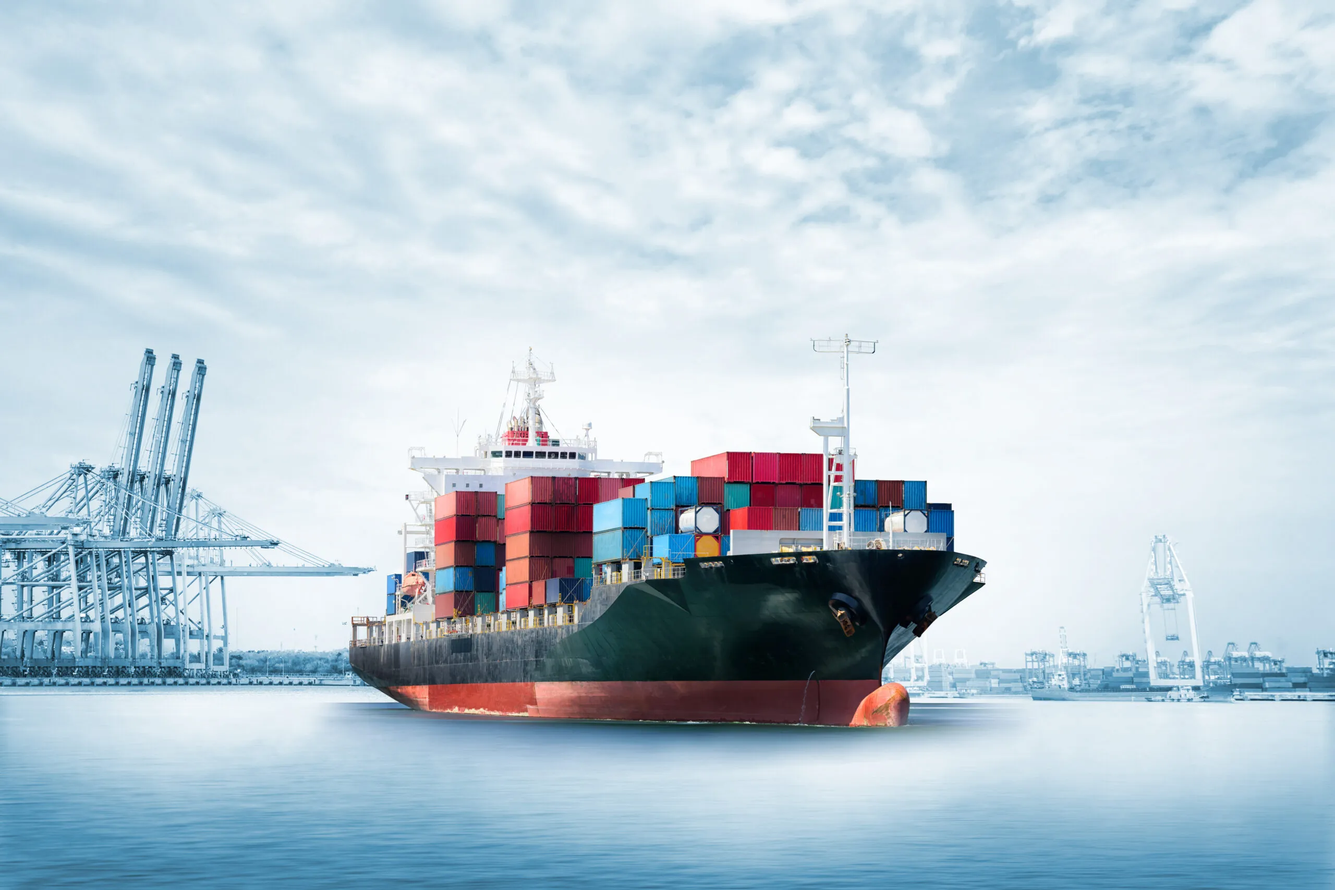
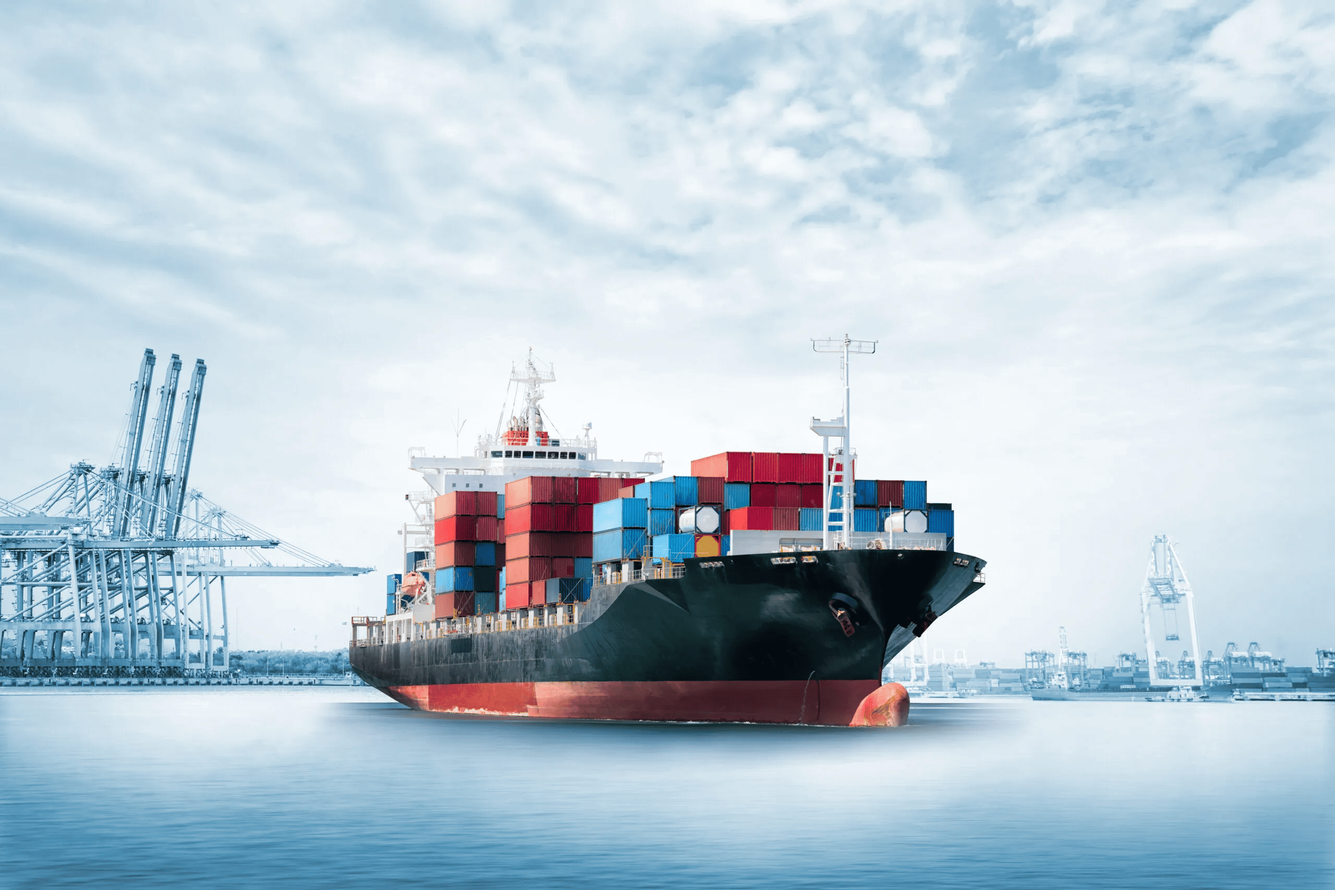
animation

diff --git a/first-surelink-logistics/src/App.css b/first-surelink-logistics/src/App.css
@@ -3,8 +3,6 @@
   padding: 0;
   box-sizing: border-box;
   scroll-behavior:smooth;
-  
-  
 }
 
 body {
@@ -286,6 +284,7 @@ body {
   text-align: left;
   background-color: #ffffff;
     margin: 0;
+     overflow-x: hidden;
 }
 
 
@@ -300,6 +299,7 @@ body {
   width: 100%;
   height: 100%;
   object-fit: cover;
+  
 }
 
 .service h2 {
@@ -590,6 +590,7 @@ width: 70%;
   padding: 100px 5%;
   background: #f6f6f6;
   border-radius: 20px;
+  overflow-x: hidden;
 }
 
 .flow-heading {
@@ -614,6 +615,7 @@ width: 70%;
 
 .flow-content {
   flex: 1;
+  overflow-x: hidden;
 }
 
 .flow-content p {
@@ -1019,6 +1021,7 @@ display: flex;
 
 
 @media (max-width: 768px) {
+  
     .hero h1 {
     font-size: 64px;
     font-weight: 600;
@@ -1035,6 +1038,7 @@ display: flex;
 }
 
 }@media (max-width: 414px) {
+  
   
   .nav {
     display: none;
@@ -1151,6 +1155,7 @@ width: 110%;
   .service {
     padding: 45px 6%;
     grid-template-columns: 1fr;
+    
   }
   
 
